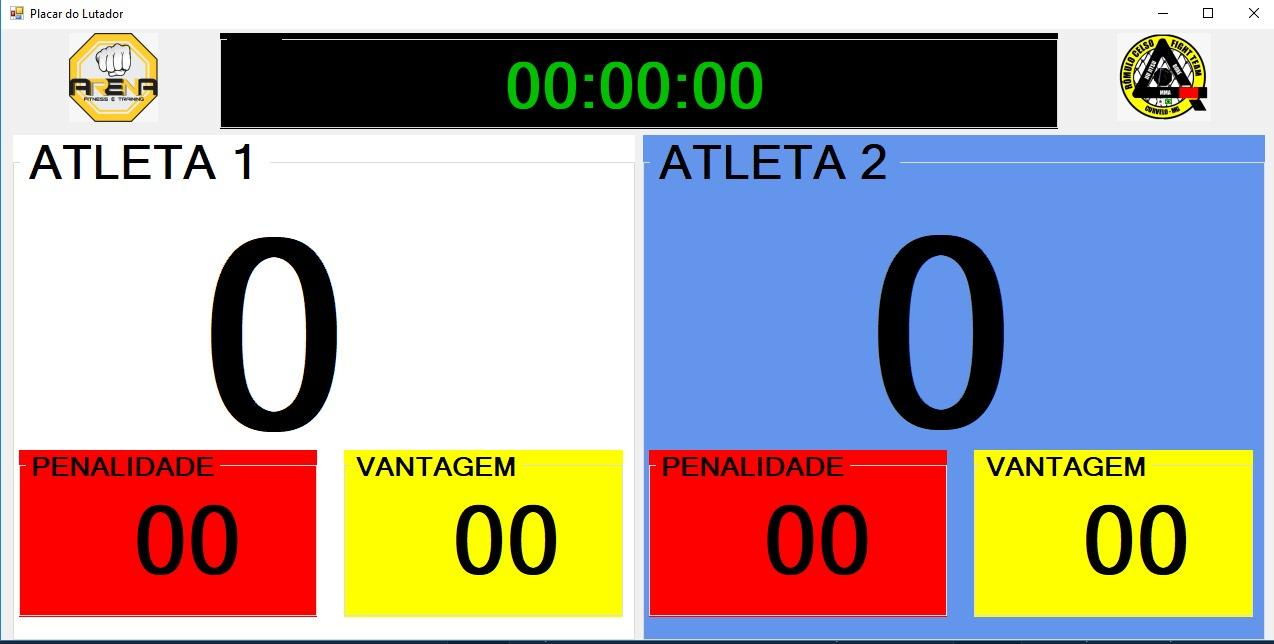
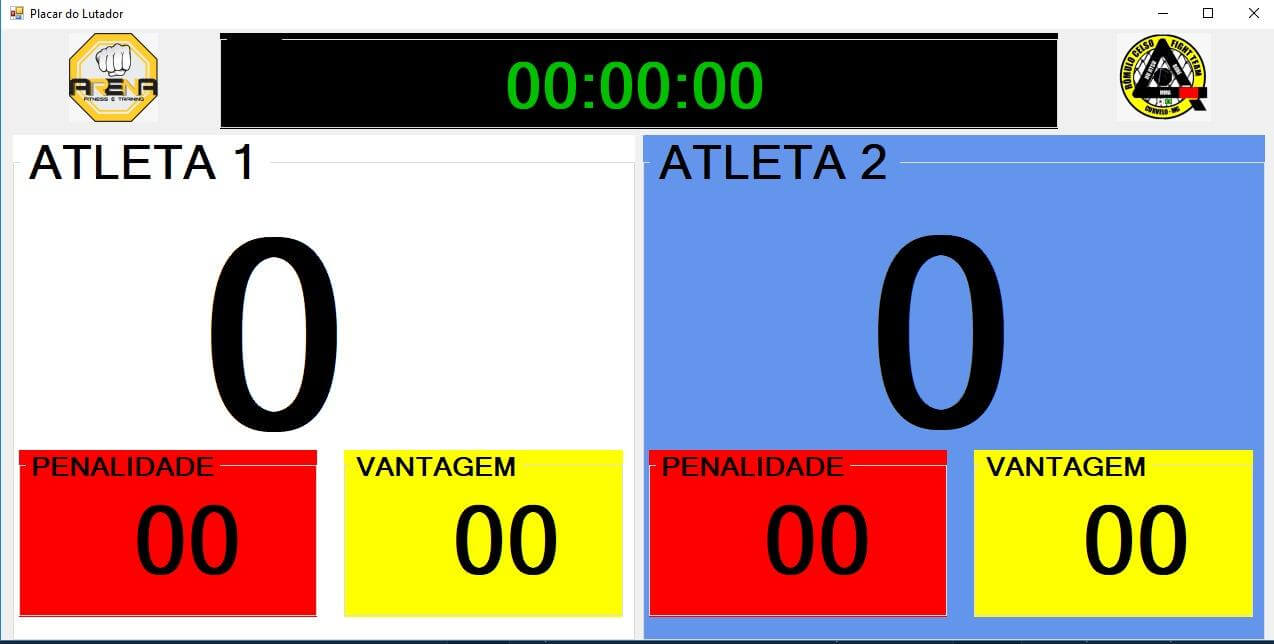
imagens otimizadas para web

diff --git a/index.html b/index.html
@@ -129,33 +129,33 @@
             <div class="portifolio-img">
                 <article>
                     <a class="button" verify="loginEasy">
-                        <img src="img/potifolio/easy_caixa/login.PNG" alt="Tela de login" title="Tela de login">
+                        <img src="img/potifolio/easy_caixa/login.png" alt="Tela de login" title="Tela de login">
                     </a>
                     
                 </article>
                 <article>
                     <a class="button" verify="inicialEasy">
-                        <img src="img/potifolio/easy_caixa/inicialG.PNG" alt="Tela inicial" title="Tela inicial">
+                        <img src="img/potifolio/easy_caixa/inicialG.png" alt="Tela inicial" title="Tela inicial">
                     </a>
                 </article>
                 <article>
                     <a class="button" verify="vendaEasy">
-                        <img src="img/potifolio/easy_caixa/vendaG.PNG" alt="Tela de venda" title="Tela de venda">
+                        <img src="img/potifolio/easy_caixa/vendaG.png" alt="Tela de venda" title="Tela de venda">
                     </a>
                 </article>
                 <article>
                     <a class="button" verify="sangriaEasy">
-                        <img src="img/potifolio/easy_caixa/sangriaG.PNG" alt="Tela de sangria" title="Tela de sangria">
+                        <img src="img/potifolio/easy_caixa/sangriaG.png" alt="Tela de sangria" title="Tela de sangria">
                     </a>
                 </article>
                 <article>
                     <a class="button" verify="relatorioEasy">
-                        <img src="img/potifolio/easy_caixa/relátoriosG.PNG" alt="Tela de relátorios" title="Tela de relátorios">
+                        <img src="img/potifolio/easy_caixa/relátoriosG.png" alt="Tela de relátorios" title="Tela de relátorios">
                     </a>
                 </article>
                 <article>
                     <a class="button" verify="graficoEasy">
-                        <img src="img/potifolio/easy_caixa/graficosG.PNG" alt="Tela de relátorios" title="Tela de relátorios">
+                        <img src="img/potifolio/easy_caixa/graficosG.png" alt="Tela de relátorios" title="Tela de relátorios">
                     </a>
                 </article>
             </div>

diff --git a/js/fade.js b/js/fade.js
@@ -13,27 +13,27 @@ $(function () {
         // verificando imagens do modal portifolio
         if($(this).attr("verify") === "loginEasy"){
             img.attr({
-                src: "img/potifolio/easy_caixa/loginG.PNG"
+                src: "img/potifolio/easy_caixa/login.png"
             });
         } else if($(this).attr("verify") === "inicialEasy"){
             img.attr({
-                src: "img/potifolio/easy_caixa/inicialG.PNG"
+                src: "img/potifolio/easy_caixa/inicialG.png"
             });
         }else if($(this).attr("verify") === "vendaEasy"){
             img.attr({
-                src: "img/potifolio/easy_caixa/vendaG.PNG"
+                src: "img/potifolio/easy_caixa/vendaG.png"
             });
         }else if($(this).attr("verify") === "sangriaEasy"){
             img.attr({
-                src: "img/potifolio/easy_caixa/sangriaG.PNG"
+                src: "img/potifolio/easy_caixa/sangriaG.png"
             });
         }else if($(this).attr("verify") === "relatorioEasy"){
             img.attr({
-                src: "img/potifolio/easy_caixa/relátoriosG.PNG"
+                src: "img/potifolio/easy_caixa/relátoriosG.png"
             });
         }else if($(this).attr("verify") === "graficoEasy"){
             img.attr({
-                src: "img/potifolio/easy_caixa/graficosG.PNG"
+                src: "img/potifolio/easy_caixa/graficosG.png"
             });
         }else if($(this).attr("verify") === "usuarioJiu"){
             img.attr({

diff --git a/css/style.css b/css/style.css
@@ -486,3 +486,10 @@ main .portifolio{
         width: 320px;
     }
 }
+
+/* 400px */
+@media(max-width: 25em){
+    header .header_menu h1{
+        font-size: 0.94em;
+    }
+}
